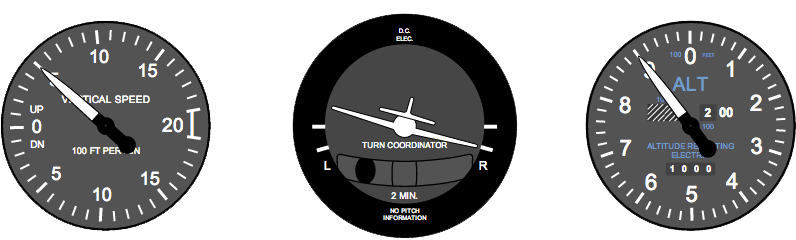
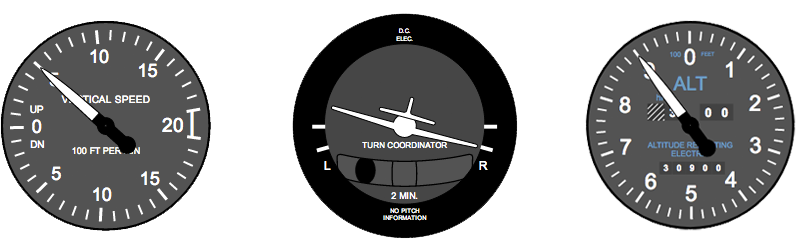
Updates /simulation marketing page.

diff --git a/_site/simulation/index.html b/_site/simulation/index.html
@@ -337,13 +337,15 @@ TechOctave helps us demonstrate with style how we can deliver best-in-class avia
 
 <p><strong>Fully exposed API.</strong> Every background, every line, every needle, every frame, everything is at your fingertips to control:</p>
 
-<p><img src="/images/configurable_flight_gauges.png" alt="configurable_flight_gauges" /></p>
+<p><img src="/images/altimeter-electronic-configurable.png" alt="configurable_flight_gauges" /></p>
+
+<p>We don’t limit you to whatever comes in the box. Our flight gauges are flexible. Need to show the current value, set the <em>hasValue</em> property to <em>true</em>. Need a completely digital version of the Altimeter, there’s a property for that.</p>
 
 <p>For us it’s simple, give you the best software. Then get out of the way. We believe our JavaScript components do something no one else can. . .We put your success in your hands - as it should be.</p>
 
-<p><img src="/images/glasscockpit.gif" style="border-radius: 18px;" alt="JavaScript flight gauge glass cockpit." /></p>
+<p><img src="/images/flight-gauges-glass-cockpit-live.gif" style="border-radius: 18px;" alt="JavaScript flight gauge glass cockpit." /></p>
 
-<p>So go all digital and create your own custom glass cockpits. Or develop a custom multi-functional display. If you can dream it, our flight gauges can help you pull it off and then some.</p>
+<p>So go all digital and create your own custom glass cockpit flight instrument panel. Or develop a custom multi-functional display. If you can dream it, our flight gauges can help you pull it off and then some.</p>
 
 <p>No matter the requirement or client demand, we keep our flight gauges flexible so you can stay flexible too.</p>
 
@@ -366,17 +368,16 @@ TechOctave helps us demonstrate with style how we can deliver best-in-class avia
 <p class="code">
 	<span>var altimeter = new Altimeter("altimeter", {</span>
 		<span class="content">altitude: 0,</span>
-		<span class="content">reporting: 0,</span>
-		<span class="content">hundreds: 0,</span>
-		<span class="content">thousands: 0</span>
+		<span class="content">electric: 0,</span>
+		<span class="content">pressure: 0,</span>
+		<span class="content">pressureUnit: "hPa"</span>
 	<span>});</span>
 </p>
 
 <p class="code">
-	<span>altimeter.setAltitude(0);</span>
-	<span>altimeter.setReporting(2573);</span>
-	<span>altimeter.setHundreds(2);</span>
-	<span>altimeter.setThousands(1);</span>
+	<span>altimeter.setAltitude(30000);</span>
+	<span>altimeter.setElectric(30000);</span>
+	<span>altimeter.setPressure(250);</span>
 </p>
 
 <p class="code">
